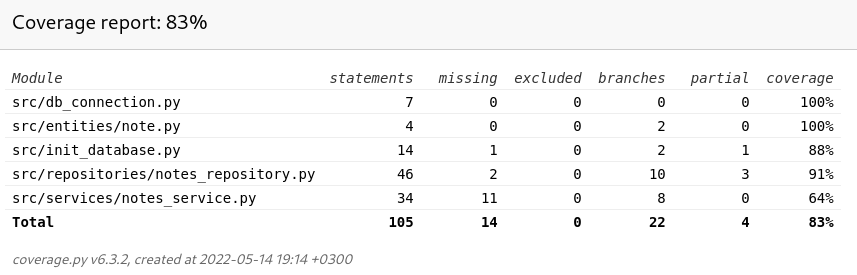
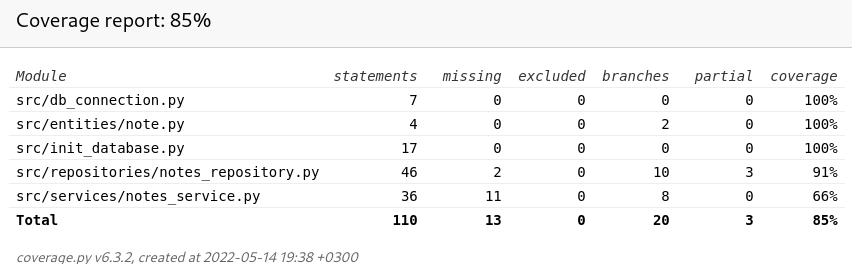
Testing update and test manual

diff --git a/DesktopJournal/src/services/notes_service.py b/DesktopJournal/src/services/notes_service.py
@@ -2,7 +2,7 @@
 from repositories.notes_repository import NotesRepository
 from db_connection import get_database_connection
 from entities.note import Note
-
+from init_database import init_db
 
 class NotesService:
     """Class that is responsible for the logic operations.
@@ -13,6 +13,7 @@ class NotesService:
         and creates NotesRepository object.
         """
         self.connection = get_database_connection()
+        init_db()
         self.notes_repository = NotesRepository(self.connection)
 
     def create_note(self, content):

diff --git a/DesktopJournal/src/tests/notes_test.py b/DesktopJournal/src/tests/notes_test.py
@@ -1,12 +1,12 @@
 import unittest
 from services.notes_service import NotesService
-from init_database import init_db
+from init_database import init_test_db
 
 
-class TestNotesService(unittest.TestCase):
+class TestNotes(unittest.TestCase):
 
     def setUp(self):
-        init_db()
+        init_test_db()
         self.notes_service = NotesService()
 
     def test_get_notes(self):

diff --git a/DesktopJournal/src/init_database.py b/DesktopJournal/src/init_database.py
@@ -23,5 +23,10 @@ def init_db():
     conn = get_database_connection()
     execute_sql_file(path + "/schema.sql", conn)
 
-if __name__ == "__main__":
-    init_db()
+
+def init_test_db():
+    path = os.path.dirname(__file__)
+    conn = get_database_connection()
+    execute_sql_file(path + "/empty_schema.sql", conn)
+    execute_sql_file(path + "/populate.sql", conn)
+

diff --git a/DesktopJournal/documentation/testing.md b/DesktopJournal/documentation/testing.md
@@ -1,0 +1,17 @@
+# Testing documentation
+
+Program has been unit tested with automated unittest and manual UI-tests.
+
+## Unittesting
+
+Program has been unittested using by creating a new database with mock data.
+
+
+### Test coverage
+![coverage](https://github.com/rikubrandt/ot-tehtavat/blob/main/DesktopJournal/documentation/pictures/test_coverage.png)
+
+
+## System testing
+Program has been installed and configured using the instructions manual.
+
+
